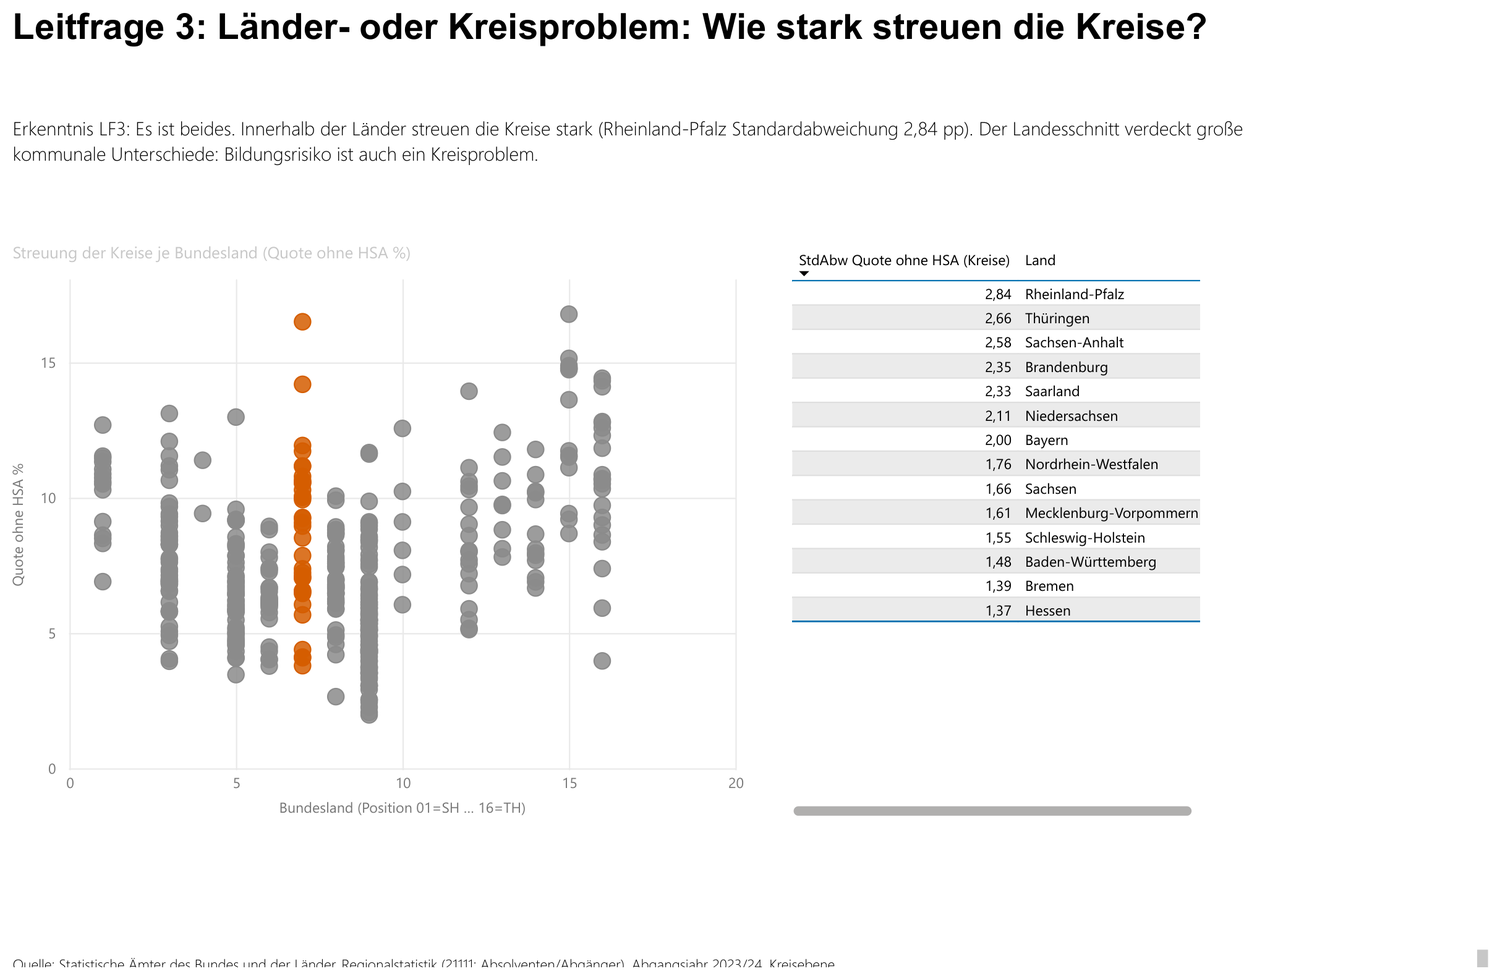
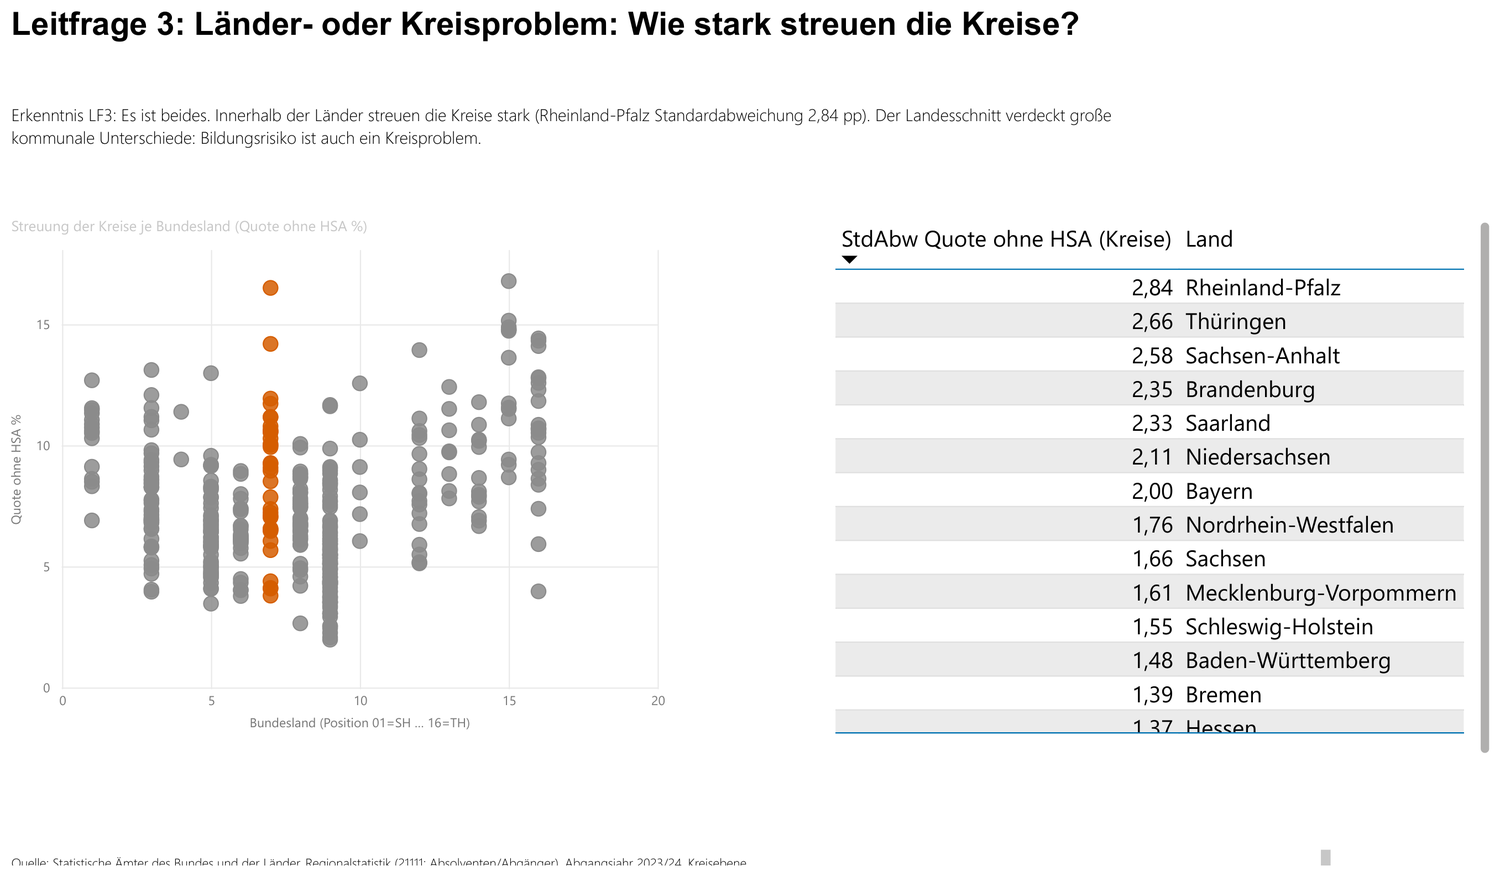
LF3: StdAbw-Tabelle deutlich vergroessert; Namen-auf-Achse ehrlich getestet
- StdAbw-Tabelle auf der LF3-Seite stark vergroessert (x=704, 552x460, Schrift 14 pt) -
  die Streuungswerte je Bundesland sind jetzt prominent lesbar; pbi_lf3.png + DOCX/PPTX neu.
- Bundesland-NAMEN statt Positionsnummern auf der Dot-Plot-Achse: zweiten nativen Weg
  (Liniendiagramm, X=Land kategorial, Serie=Kreis, nur Marker) live getestet und VERWORFEN -
  Power BI reduziert bei ~400 Serien die Daten (i-Warnung, Punkte fehlen, Achse zerfaellt).
  SVG-Variante auf Teamwunsch nicht eingesetzt. Befund in BEFUNDE §8 dokumentiert;
  sauberer Namens-Weg bleibt Deneb (Anleitung + Specs liegen bereit).
- verify_all: 107/107 gruen; .pbip = .pbix.

diff --git a/BEFUNDE_UND_KORREKTUREN.md b/BEFUNDE_UND_KORREKTUREN.md
@@ -113,6 +113,6 @@ Umsetzung: Die Akzent-/Kontextfarben stecken in elf Formatierungs-Measures (Prä
 
 **LF5 – von der Umgehung zur echten Antwort.** Uns ist aufgefallen, dass LF5 die Leitfrage „Wie prägt der Schulartmix die Abschlussverteilung?" gar nicht beantwortete: Die beiden Measures rechneten nur aus `fact_schule_2023[schueler_insg]` – also *wie viele Schüler* je Schulart existieren, nicht *wer* welchen Abschluss erreicht. Die Abgangsdaten (`fact_abgaenge`) kennen keine Schulart, die geforderte Kreuzung fehlte im Modell. Statt die Frage umzuformulieren, haben wir eine bereits offen vorliegende Quelle erschlossen – **Destatis 21111-12 (Absolvierende/Abgehende nach Schulart und Abschlussart, Landesebene 2023)** – und als eigene Fakttabelle `fact_abgaenge_schulart` per Power Query (Excel.Workbook) direkt aus `data/raw` integriert (Beziehungen `region_code → dim_region`, `abschluss_key → dim_abschluss`; Deutschland-Default-Measure gegen Doppelzählung über Land+DG). **Befund:** Von 55.705 Abgängen ohne Hauptschulabschluss in Deutschland entfallen **41,9 % (23.324) auf Förderschulen**, 22 % auf integrierte Gesamtschulen, 16 % auf mehrgliedrige Schularten, 13 % auf Hauptschulen – von Gymnasien nur ~3 %. Konsistenz-Anker: dieselbe DE-Summe „ohne HSA" (Schulart=Insgesamt = 55.708) deckt sich mit `fact_abgaenge`. **Vorbehalt** offen ausgewiesen: nur Landesebene (keine Kreise); die Schulart-Kategorien der Abgangsstatistik folgen der Schulstatistik (u. a. Gymnasien G8/G9, Förderschulen) und sind nicht 1:1 mit der Schülerzahlen-Dimension.
 
-**LF3 & LF9 – Streuung je Bundesland sichtbar gemacht.** Die alten Streudiagramme zeigten die Streuung *nach Bundesland* nicht gut. Wir haben beide auf **native Dot-/Strip-Plots** umgestellt: X = Bundesland über ein Positions-Measure `BL-Position` (01–16 aus dem AGS), ein Punkt je **Kreis** (`Category = region_code`, damit gleichnamige Kreise nicht kollabieren), Y = Quote ohne HSA (LF3) bzw. Risiko-Score (LF9). So entstehen je Land vertikale Punktbänder; Rheinland-Pfalz (LF3) bzw. die Top-10-Risiko-Kreise (LF9) sind vertragskonform akzentuiert. Grenze offen benannt und nativ getestet: das Streudiagramm bricht, sobald ein Textfeld (Bundesland) bei gleichzeitigem Detail-Feld (ein Punkt je Kreis) auf die X-Achse gelegt wird – echte Land-Namen auf der Achse gehen also nativ nicht, nur die numerische Position 01–16 (Land-Namen im Tooltip). Für die Namen ist ein kategorialer Strip-Plot über ein Custom Visual (Deneb, AppSource-Login = Team-Aktion) nötig; das ist vorbereitet: berechnete Spalte `dim_region[Land-Kürzel]` (SH…TH) und fertige Vega-Lite-Specs in `DENEB_DOTPLOT_ANLEITUNG.md`.
+**LF3 & LF9 – Streuung je Bundesland sichtbar gemacht.** Die alten Streudiagramme zeigten die Streuung *nach Bundesland* nicht gut. Wir haben beide auf **native Dot-/Strip-Plots** umgestellt: X = Bundesland über ein Positions-Measure `BL-Position` (01–16 aus dem AGS), ein Punkt je **Kreis** (`Category = region_code`, damit gleichnamige Kreise nicht kollabieren), Y = Quote ohne HSA (LF3) bzw. Risiko-Score (LF9). So entstehen je Land vertikale Punktbänder; Rheinland-Pfalz (LF3) bzw. die Top-10-Risiko-Kreise (LF9) sind vertragskonform akzentuiert. Grenze offen benannt und nativ getestet: das Streudiagramm bricht, sobald ein Textfeld (Bundesland) bei gleichzeitigem Detail-Feld (ein Punkt je Kreis) auf die X-Achse gelegt wird – echte Land-Namen auf der Achse gehen also nativ nicht, nur die numerische Position 01–16 (Land-Namen im Tooltip). Auch den zweiten nativen Kandidaten haben wir live getestet und verworfen: ein Liniendiagramm mit kategorialer X-Achse (Land) und einer Serie je Kreis rendert zwar Namen, aber Power BI reduziert bei ~400 Serien die Daten (ⓘ-Warnung, nur ein Bruchteil der Punkte gezeichnet, Achse zerfällt) – für uns unehrlich und damit keine Option. Für echte Namen auf der Achse bleibt ein kategorialer Strip-Plot über ein Custom Visual (Deneb, AppSource-Login = Team-Aktion) nötig; das ist vorbereitet: berechnete Spalte `dim_region[Land-Kürzel]` (SH…TH) und fertige Vega-Lite-Specs in `DENEB_DOTPLOT_ANLEITUNG.md`. Als Lesbarkeits-Fix haben wir die LF3-StdAbw-Tabelle deutlich vergrößert (14 pt).
 
 **LF1/LF4 – Vertragsfarben + ehrliche Achsen.** LF1-Linienchart auf das Schuljahr-Vergleichspaar gepinnt (2023/24 Blau, 2022/23 Orange) und die Werteachse auf Start 0 gesetzt; LF4 ebenfalls Werteachse ab 0 mit dem Okabe-Ito-Paar. verify_all nach jeder Änderung grün (aktuell 107/107); `.pbip` und `.pbix` in Sync.

diff --git a/visual_spezifikation.md b/visual_spezifikation.md
@@ -16,7 +16,7 @@
 |--:|---|---|---|---|---|---|
 | 1 | LF1 | **Balken horizontal** (sortiert) | Achse `dim_region[region]` (BL); Wert `[Quote ohne HSA %]`; Akzent = Max | `ebene=BL`, Slicer `jahr` (2022/2023) | „Sachsen-Anhalt führt bei Abgängen ohne Abschluss" | `charts/LF1_bl_ohne_hsa_2023.png` |
 | 2 | LF2 | **Balkendiagramm Top-Kreise** (umgesetzt als Balken + Bubble-Map auf Kreisebene; echtes Choropleth = dokumentierte Werkzeug-Grenze) | `dim_region[region]` (Kreis) × `[Quote ohne HSA %]` | `ebene=KR`, `jahr=2023` | „Hotspots: Anhalt-Bitterfeld 16,8 %, Pirmasens 16,5 %" | `charts/LF2_kreis_hotspots.png` + PBI-Seite LF2 |
-| 3 | LF3 | statischer Beleg: **Boxplot je BL**; interaktive PBI-Seite: **Dot-/Strip-Plot** (ein Punkt je Kreis, Bundesländer nebeneinander) | statisch: Verteilung Kreis-`[Quote ohne HSA %]` je BL; interaktiv: X `[BL-Position]` (01–16), Y `[Quote ohne HSA %]`, Punkt = Kreis (`region_code`), Rheinland-Pfalz-Kreise akzentuiert | `ebene=KR`, `jahr=2023` | „Bildungsrisiko streut stark INNERHALB der Länder (RLP σ 2,84)" | `charts/LF3_streuung_kreise_box.png` (+ PBI-Seite LF3, s. docx Abb. 5) |
+| 3 | LF3 | statischer Beleg: **Boxplot je BL**; interaktive PBI-Seite: **Dot-/Strip-Plot** (ein Punkt je Kreis, Bundesländer nebeneinander) | statisch: Verteilung Kreis-`[Quote ohne HSA %]` je BL; interaktiv: X `[BL-Position]` (01–16), Y `[Quote ohne HSA %]`, Punkt = Kreis (`region_code`), Rheinland-Pfalz-Kreise akzentuiert; daneben die StdAbw-Tabelle (vergrößert, 14 pt) | `ebene=KR`, `jahr=2023` | „Bildungsrisiko streut stark INNERHALB der Länder (RLP σ 2,84)" | `charts/LF3_streuung_kreise_box.png` (+ PBI-Seite LF3, s. docx Abb. 5) |
 | 4 | LF4 | **Gruppierte Säulen** | Achse {ohne HSA, Abitur}; Legende `geschlecht`; Wert Quote | `region=DG`, `jahr=2023` | „Jungen öfter ohne Abschluss, Mädchen öfter Abitur" | `charts/LF4_geschlecht_gap.png` |
 | 5 | LF5 | **Zwei Balken**: links Schülerschaft je Schulart (Input), rechts **Abgänge ohne HSA je Schulart** (Antwort) | links Achse `dim_schulart` / `[Schüleranteil %]`; rechts Achse `fact_abgaenge_schulart[schulart]` / `[Abgänge ohne HSA (Schulart)]`, Förderschulen akzentuiert | `ebene=DE` bzw. Deutschland-Default | „Der Schulartmix prägt die Verteilung: Förderschulen stellen 42 % (23.324) der Abgänge ohne HSA" | `charts/LF5_schulartmix.png` + PBI-Seite LF5 |
 | 6 | LF6 | **Zwei Balkendiagramme nebeneinander** (absolut vs. relativ; Slope/Dumbbell war als Option geplant) | links Achse `dim_region[region]` × `[Abgänge ohne HSA]` (absolut), rechts `dim_region[region]` × `[Ohne HSA je 1000 (15-18)]` (relativ), beide absteigend sortiert | `ebene=BL`, `jahr=2023` | „Die Wertung kippt: absolut NRW/BW/Bayern, relativ Sachsen-Anhalt" | `charts/LF6_absolut_vs_relativ.png` + PBI-Seite LF6 |